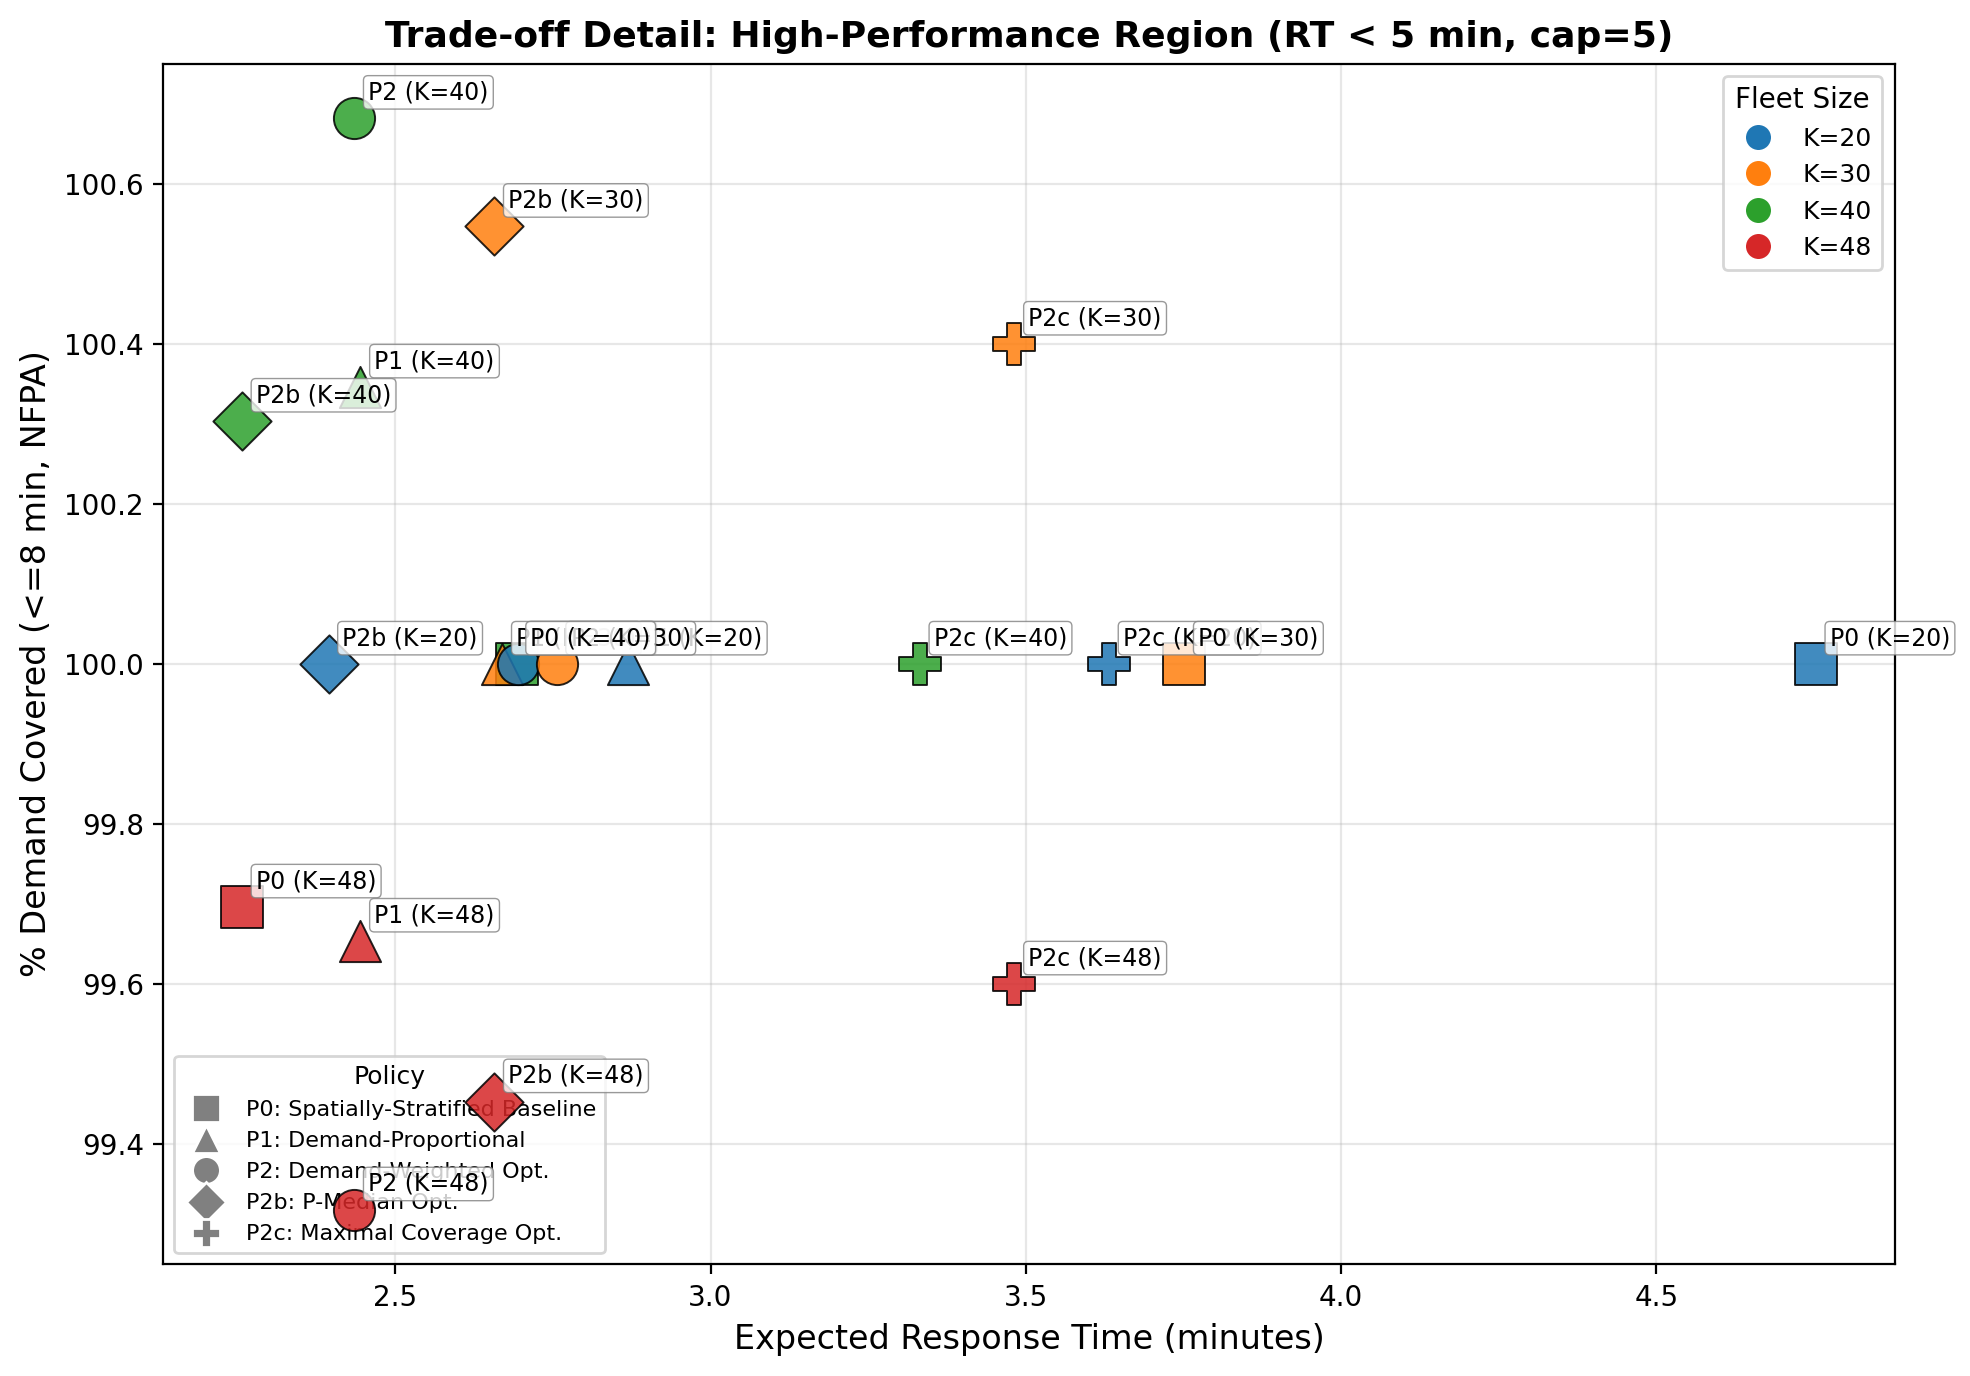
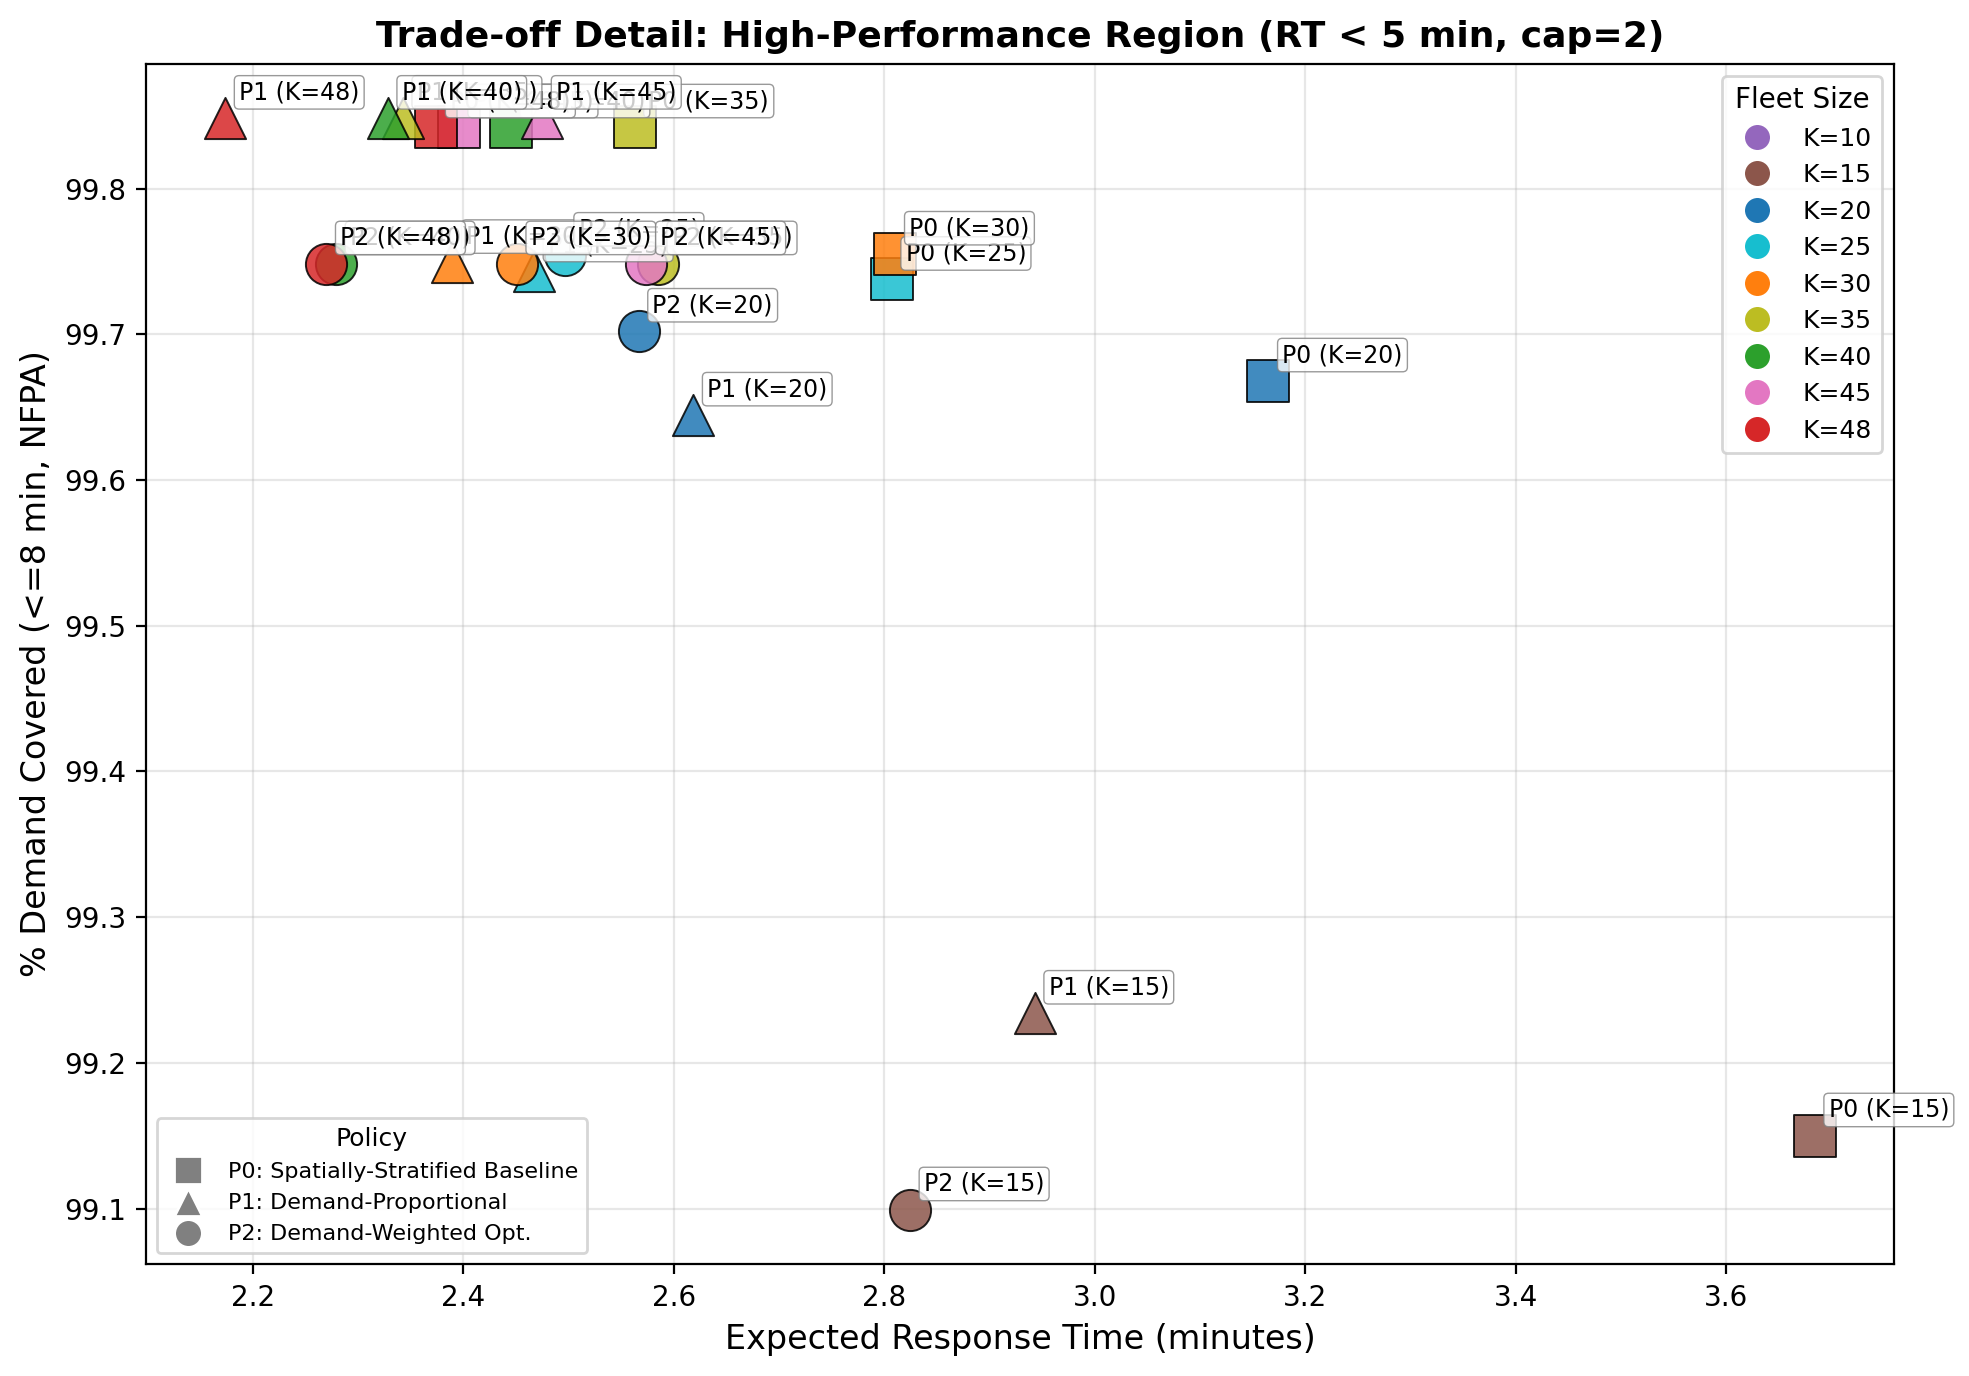
Phase 3: Regenerate affected artifacts from Phase 2 script fixes
Regenerated artifacts from corrected analysis scripts (V1→V2 data source fix):
- Publication figures (5): regenerated from V2 baseline data (cap=2)
- Capacity sensitivity heatmap: FIXED (was broken with 'Data format issue')
- Summary dashboard: updated with cap=2 references
- Tradeoff figures (2): regenerated from V2 all_results_raw.csv
- Queue statistics CSV: updated with V2 baseline metrics
- LaTeX tables (4): fixed caption from cap=5 to cap=2

Comparison methodology: MD5 hash comparison of all 29 artifacts
- 15 identical (skipped): queue figures, queue ANOVA, analysis CSVs
- 14 replaced: significant or minor diffs from corrected data source
- 1 critical fix: capacity_sensitivity_heatmap.png (was broken/empty)

diff --git a/results/analysis/tables/table2_anova_summary.tex b/results/analysis/tables/table2_anova_summary.tex
@@ -1,0 +1,61 @@
+\begin{table}[htbp]
+\centering
+\caption{ANOVA Results Summary (cap=2)}
+\label{tab:anova}
+\begin{tabular}{lrrrrrrr}
+\toprule
+Experiment & Source & Metric & F & p & Sig. & η² & Effect \\
+\midrule
+Exp1 & Policy & Mean RT (min) & 1019.252 & 0.0 & *** & 0.9591 & Large \\
+Exp1 & Policy & P90 Response Time (90th percentile, min) & 397.689 & 0.0 & *** & 0.9014 & Large \\
+Exp1 & Policy & 6-min Coverage (NYC) & 284.798 & 0.0 & *** & 0.8675 & Large \\
+Exp1 & Policy & 8-min Coverage (NFPA) & 0.458 & 0.634032 & ns & 0.0104 & Small \\
+Exp1 & Policy & Mean Utilization & 2.186 & 0.118471 & ns & 0.0479 & Small \\
+Exp2 & Policy & Mean RT (min) & 20146.983 & 0.0 & *** & 0.2895 & Large \\
+Exp2 & K & Mean RT (min) & 11321.648 & 0.0 & *** & 0.2711 & Large \\
+Exp2 & Policy × K & Mean RT (min) & 6068.802 & 0.0 & *** & 0.436 & Large \\
+Exp2 & Policy & P90 Response Time (90th percentile, min) & 11522.797 & 0.0 & *** & 0.2757 & Large \\
+Exp2 & K & P90 Response Time (90th percentile, min) & 6513.051 & 0.0 & *** & 0.2597 & Large \\
+Exp2 & Policy × K & P90 Response Time (90th percentile, min) & 3836.26 & 0.0 & *** & 0.459 & Large \\
+Exp2 & Policy & 6-min Coverage (NYC) & 12532.837 & 0.0 & *** & 0.2931 & Large \\
+Exp2 & K & 6-min Coverage (NYC) & 6565.93 & 0.0 & *** & 0.2559 & Large \\
+Exp2 & Policy × K & 6-min Coverage (NYC) & 3810.835 & 0.0 & *** & 0.4456 & Large \\
+Exp2 & Policy & 8-min Coverage (NFPA) & 17945.197 & 0.0 & *** & 0.2907 & Large \\
+Exp2 & K & 8-min Coverage (NFPA) & 7075.478 & 0.0 & *** & 0.191 & Large \\
+Exp2 & Policy × K & 8-min Coverage (NFPA) & 6352.984 & 0.0 & *** & 0.5145 & Large \\
+Exp2 & Policy & Mean Utilization & 88270.403 & 0.0 & *** & 0.8636 & Large \\
+Exp2 & K & Mean Utilization & 0.0 & 1.0 & ns & 0.0 & Negligible \\
+Exp2 & Policy × K & Mean Utilization & 2752.958 & 0.0 & *** & 0.1347 & Medium \\
+Exp3 & Policy & Mean RT (min) & 6736.837 & 0.0 & *** & 0.8255 & Large \\
+Exp3 & demand_multiplier & Mean RT (min) & 451.441 & 0.0 & *** & 0.1383 & Medium \\
+Exp3 & Policy × demand_multiplier & Mean RT (min) & 6.907 & 0.0 & *** & 0.0042 & Negligible \\
+Exp3 & Policy & P90 Response Time (90th percentile, min) & 2380.947 & 0.0 & *** & 0.699 & Large \\
+Exp3 & demand_multiplier & P90 Response Time (90th percentile, min) & 289.68 & 0.0 & *** & 0.2126 & Large \\
+Exp3 & Policy × demand_multiplier & P90 Response Time (90th percentile, min) & 8.044 & 0.0 & *** & 0.0118 & Small \\
+Exp3 & Policy & 6-min Coverage (NYC) & 1531.677 & 0.0 & *** & 0.6777 & Large \\
+Exp3 & demand_multiplier & 6-min Coverage (NYC) & 186.266 & 0.0 & *** & 0.206 & Large \\
+Exp3 & Policy × demand_multiplier & 6-min Coverage (NYC) & 0.373 & 0.957968 & ns & 0.0008 & Negligible \\
+Exp3 & Policy & 8-min Coverage (NFPA) & 8.541 & 0.000224 & *** & 0.0147 & Small \\
+Exp3 & demand_multiplier & 8-min Coverage (NFPA) & 122.735 & 0.0 & *** & 0.5269 & Large \\
+Exp3 & Policy × demand_multiplier & 8-min Coverage (NFPA) & 1.192 & 0.293663 & ns & 0.0102 & Small \\
+Exp3 & Policy & Mean Utilization & 13.934 & 1e-06 & *** & 0.0005 & Negligible \\
+Exp3 & demand_multiplier & Mean Utilization & 11885.898 & 0.0 & *** & 0.9908 & Large \\
+Exp3 & Policy × demand_multiplier & Mean Utilization & 0.35 & 0.966467 & ns & 0.0001 & Negligible \\
+Exp4 & Policy & Mean RT (min) & 2979.858 & 0.0 & *** & 0.9448 & Large \\
+Exp4 & service_time_mean & Mean RT (min) & 42.13 & 0.0 & *** & 0.0134 & Small \\
+Exp4 & Policy × service_time_mean & Mean RT (min) & 0.68 & 0.606625 & ns & 0.0004 & Negligible \\
+Exp4 & Policy & P90 Response Time (90th percentile, min) & 1139.379 & 0.0 & *** & 0.8826 & Large \\
+Exp4 & service_time_mean & P90 Response Time (90th percentile, min) & 20.409 & 0.0 & *** & 0.0158 & Small \\
+Exp4 & Policy × service_time_mean & P90 Response Time (90th percentile, min) & 0.288 & 0.885514 & ns & 0.0004 & Negligible \\
+Exp4 & Policy & 6-min Coverage (NYC) & 831.005 & 0.0 & *** & 0.8494 & Large \\
+Exp4 & service_time_mean & 6-min Coverage (NYC) & 16.84 & 0.0 & *** & 0.0172 & Small \\
+Exp4 & Policy × service_time_mean & 6-min Coverage (NYC) & 0.012 & 0.999702 & ns & 0.0 & Negligible \\
+Exp4 & Policy & 8-min Coverage (NFPA) & 0.902 & 0.407042 & ns & 0.0063 & Negligible \\
+Exp4 & service_time_mean & 8-min Coverage (NFPA) & 11.422 & 1.8e-05 & *** & 0.0798 & Medium \\
+Exp4 & Policy × service_time_mean & 8-min Coverage (NFPA) & 0.153 & 0.961463 & ns & 0.0021 & Negligible \\
+Exp4 & Policy & Mean Utilization & 6.477 & 0.001797 & ** & 0.0032 & Negligible \\
+Exp4 & service_time_mean & Mean Utilization & 1887.261 & 0.0 & *** & 0.9323 & Large \\
+Exp4 & Policy × service_time_mean & Mean Utilization & 0.008 & 0.999884 & ns & 0.0 & Negligible \\
+\bottomrule
+\end{tabular}
+\end{table}

diff --git a/results/analysis/tables/table4_sensitivity_summary.tex b/results/analysis/tables/table4_sensitivity_summary.tex
@@ -1,0 +1,56 @@
+\begin{table}[htbp]
+\centering
+\caption{Sensitivity Analysis Summary (cap=2)}
+\label{tab:sensitivity}
+\begin{tabular}{lrrrrrrr}
+\toprule
+Experiment & Factor Level & Policy & Mean RT & P90 RT (90th pctl) & 6-min Coverage (NYC) & 8-min Coverage (NFPA) & Utilization \\
+\midrule
+Fleet Size & 15.0 & P0 & 3.70 & 5.63 & 92.4% & 99.0% & nan \\
+Fleet Size & 15.0 & P1 & 2.94 & 5.00 & 95.5% & 99.2% & 0.100 \\
+Fleet Size & 15.0 & P2 & 2.82 & 4.42 & 95.7% & 99.1% & 0.100 \\
+Fleet Size & 20.0 & P0 & 3.17 & 5.33 & 94.0% & 99.6% & nan \\
+Fleet Size & 20.0 & P1 & 2.62 & 3.99 & 98.0% & 99.6% & 0.074 \\
+Fleet Size & 20.0 & P2 & 2.57 & 3.75 & 98.2% & 99.7% & 0.074 \\
+Fleet Size & 25.0 & P0 & 2.82 & 3.88 & 99.0% & 99.7% & nan \\
+Fleet Size & 25.0 & P1 & 2.47 & 3.47 & 99.0% & 99.7% & 0.059 \\
+Fleet Size & 25.0 & P2 & 2.50 & 3.48 & 98.6% & 99.8% & 0.059 \\
+Fleet Size & 30.0 & P0 & 2.82 & 3.91 & 99.3% & 99.7% & nan \\
+Fleet Size & 30.0 & P1 & 2.40 & 3.23 & 99.1% & 99.7% & 0.049 \\
+Fleet Size & 30.0 & P2 & 2.51 & 3.57 & 98.9% & 99.8% & 0.049 \\
+Fleet Size & 35.0 & P0 & 2.56 & 3.43 & 99.6% & 99.8% & nan \\
+Fleet Size & 35.0 & P1 & 2.34 & 3.10 & 99.7% & 99.8% & 0.042 \\
+Fleet Size & 35.0 & P2 & 2.43 & 3.29 & 98.7% & 99.7% & 0.042 \\
+Fleet Size & 40.0 & P0 & 2.44 & 3.20 & 99.7% & 99.8% & nan \\
+Fleet Size & 40.0 & P1 & 2.35 & 3.12 & 99.5% & 99.8% & 0.037 \\
+Fleet Size & 40.0 & P2 & 2.50 & 3.55 & 98.9% & 99.9% & 0.037 \\
+Demand & 0.5 & P0 & 3.10 & 5.11 & 94.8% & 99.8% & 0.038 \\
+Demand & 0.5 & P1 & 2.53 & 3.69 & 98.6% & 99.8% & 0.037 \\
+Demand & 0.5 & P2 & 2.44 & 3.40 & 99.1% & 99.8% & 0.037 \\
+Demand & 0.75 & P0 & 3.15 & 5.24 & 94.2% & 99.7% & 0.058 \\
+Demand & 0.75 & P1 & 2.57 & 3.84 & 98.2% & 99.7% & 0.056 \\
+Demand & 0.75 & P2 & 2.51 & 3.58 & 98.4% & 99.7% & 0.056 \\
+Demand & 1.0 & P0 & 3.17 & 5.33 & 94.0% & 99.7% & 0.076 \\
+Demand & 1.0 & P1 & 2.62 & 3.99 & 98.0% & 99.6% & 0.074 \\
+Demand & 1.0 & P2 & 2.57 & 3.75 & 98.2% & 99.7% & 0.074 \\
+Demand & 1.25 & P0 & 3.22 & 5.52 & 93.4% & 99.5% & 0.097 \\
+Demand & 1.25 & P1 & 2.68 & 4.17 & 97.4% & 99.5% & 0.095 \\
+Demand & 1.25 & P2 & 2.63 & 3.91 & 97.5% & 99.6% & 0.095 \\
+Demand & 1.5 & P0 & 3.28 & 5.71 & 92.6% & 99.3% & 0.117 \\
+Demand & 1.5 & P1 & 2.74 & 4.47 & 96.7% & 99.3% & 0.115 \\
+Demand & 1.5 & P2 & 2.71 & 4.20 & 96.8% & 99.5% & 0.115 \\
+Demand & 2.0 & P0 & 3.36 & 5.85 & 91.7% & 98.9% & 0.156 \\
+Demand & 2.0 & P1 & 2.87 & 4.91 & 95.7% & 98.9% & 0.154 \\
+Demand & 2.0 & P2 & 2.84 & 4.75 & 95.7% & 99.1% & 0.153 \\
+Service Time & 20.0 & P0 & 3.14 & 5.26 & 94.2% & 99.7% & 0.061 \\
+Service Time & 20.0 & P1 & 2.58 & 3.88 & 98.3% & 99.7% & 0.060 \\
+Service Time & 20.0 & P2 & 2.52 & 3.64 & 98.5% & 99.7% & 0.060 \\
+Service Time & 25.0 & P0 & 3.17 & 5.33 & 94.0% & 99.7% & 0.076 \\
+Service Time & 25.0 & P1 & 2.62 & 3.99 & 98.0% & 99.6% & 0.074 \\
+Service Time & 25.0 & P2 & 2.57 & 3.75 & 98.2% & 99.7% & 0.074 \\
+Service Time & 30.0 & P0 & 3.20 & 5.44 & 93.6% & 99.6% & 0.090 \\
+Service Time & 30.0 & P1 & 2.66 & 4.14 & 97.6% & 99.5% & 0.089 \\
+Service Time & 30.0 & P2 & 2.62 & 3.89 & 97.8% & 99.6% & 0.088 \\
+\bottomrule
+\end{tabular}
+\end{table}

diff --git a/results/analysis/tables/table3_pairwise_comparisons.tex b/results/analysis/tables/table3_pairwise_comparisons.tex
@@ -1,0 +1,26 @@
+\begin{table}[htbp]
+\centering
+\caption{Pairwise Policy Comparisons (Experiment 1, cap=2)}
+\label{tab:pairwise}
+\begin{tabular}{lrrrrrrrr}
+\toprule
+Metric & A & B & Δ Mean & CI Lo & CI Hi & p (Bonf.) & Cohen's d & Sig. \\
+\midrule
+Mean RT (min) & P0 & P1 & 0.5465 & 0.5154 & 0.5775 & 0.0 & 9.2925 & *** \\
+Mean RT (min) & P0 & P2 & 0.5984 & 0.5671 & 0.6297 & 0.0 & 10.1059 & *** \\
+Mean RT (min) & P1 & P2 & 0.0519 & 0.0243 & 0.0796 & 0.001829 & 0.992 & ** \\
+P90 Response Time (90th percentile, min) & P0 & P1 & 1.3457 & 1.2011 & 1.4902 & 0.0 & 4.9163 & *** \\
+P90 Response Time (90th percentile, min) & P0 & P2 & 1.5821 & 1.4451 & 1.719 & 0.0 & 6.1008 & *** \\
+P90 Response Time (90th percentile, min) & P1 & P2 & 0.2364 & 0.1569 & 0.3159 & 1e-06 & 1.571 & *** \\
+6-min Coverage (NYC) & P0 & P1 & -0.0404 & -0.045 & -0.0359 & 0.0 & -4.6697 & *** \\
+6-min Coverage (NYC) & P0 & P2 & -0.042 & -0.0466 & -0.0375 & 0.0 & -4.8576 & *** \\
+6-min Coverage (NYC) & P1 & P2 & -0.0016 & -0.0045 & 0.0013 & 1.0 & -0.293 & ns \\
+8-min Coverage (NFPA) & P0 & P1 & 0.0002 & -0.001 & 0.0015 & 1.0 & 0.0972 & ns \\
+8-min Coverage (NFPA) & P0 & P2 & -0.0003 & -0.0015 & 0.0008 & 1.0 & -0.1579 & ns \\
+8-min Coverage (NFPA) & P1 & P2 & -0.0006 & -0.0019 & 0.0007 & 1.0 & -0.2352 & ns \\
+Mean Utilization & P0 & P1 & 0.0012 & -0.0004 & 0.0029 & 0.738904 & 0.4039 & ns \\
+Mean Utilization & P0 & P2 & 0.0016 & -0.0001 & 0.0032 & 0.3307 & 0.5054 & ns \\
+Mean Utilization & P1 & P2 & 0.0003 & -0.0013 & 0.002 & 1.0 & 0.1135 & ns \\
+\bottomrule
+\end{tabular}
+\end{table}

diff --git a/results/analysis/tables/table1_baseline_comparison.tex b/results/analysis/tables/table1_baseline_comparison.tex
@@ -1,0 +1,14 @@
+\begin{table}[htbp]
+\centering
+\caption{Baseline Policy Comparison (Experiment 1, K=20, cap=2)}
+\label{tab:baseline}
+\begin{tabular}{lrrrrrr}
+\toprule
+Policy & Mean RT (95% CI) & P90 Response Time (90th pctl) & 6-min Coverage (NYC) & 8-min Coverage (NFPA) & Utilization & N \\
+\midrule
+P0 & 3.17 (3.1408, 3.1893) & 5.33 & 94.0% & 99.7% & 0.076 & 30 \\
+P1 & 2.62 (2.5992, 2.6379) & 3.99 & 98.0% & 99.6% & 0.074 & 30 \\
+P2 & 2.57 (2.5469, 2.5864) & 3.75 & 98.2% & 99.7% & 0.074 & 30 \\
+\bottomrule
+\end{tabular}
+\end{table}
